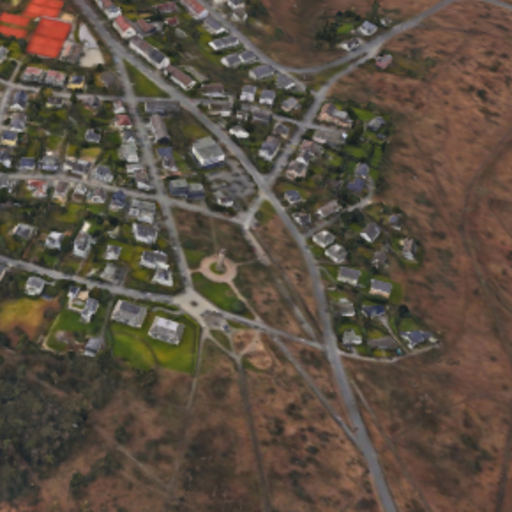
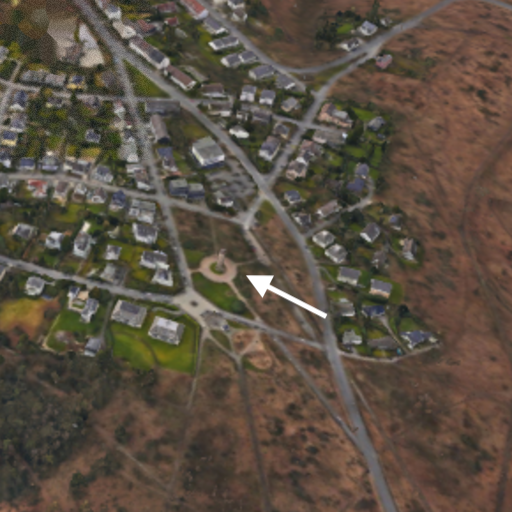
#745 updated images for the demo

diff --git a/apps/geoportal/src/app/constants/fachzwillinge/boden.ts b/apps/geoportal/src/app/constants/fachzwillinge/boden.ts
@@ -13,7 +13,7 @@ import tower01 from "../../../assets/temp-demo/tower-01.png";
 import tower02 from "../../../assets/temp-demo/tower-02.png";
 import tower03 from "../../../assets/temp-demo/tower-03.png";
 import tower04 from "../../../assets/temp-demo/tower-04.png";
-import tower05 from "../../../assets/temp-demo/tower-05.png";
+import tower06 from "../../../assets/temp-demo/tower-06.png";
 
 import type { FachzwillingRoute } from ".";
 
@@ -79,7 +79,7 @@ export const bodenFachzwilling: FachzwillingRoute = {
           // the last step has no upper bound, so it covers every deeper zoom
           poi_gebaeude: [
             // { maxZoom: 12, imageUrl: tower06 },
-            { maxZoom: 14, imageUrl: tower05 },
+            { maxZoom: 14, imageUrl: tower06 },
             { maxZoom: 16, imageUrl: tower04 },
             { maxZoom: 18, imageUrl: tower03 },
             { maxZoom: 20, imageUrl: tower02 },
